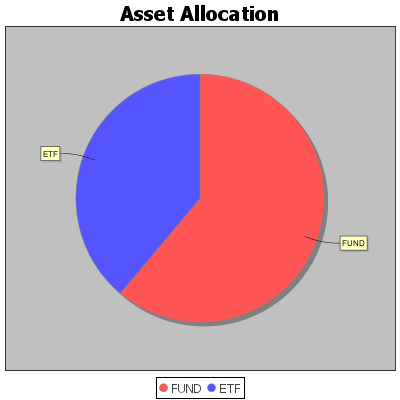
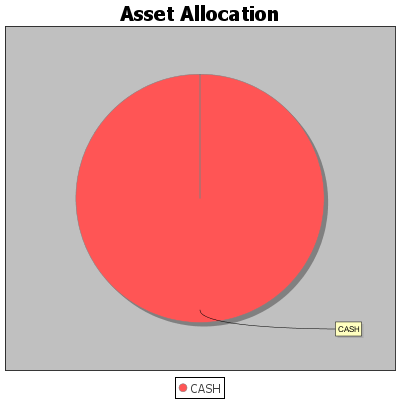
#17 create simple REST end point

diff --git a/finance-stockfeed/recommendations.html b/finance-stockfeed/recommendations.html
@@ -1,1 +1,1 @@
-<html><head></head><body><table><tr><th>Name</th><th>ISIN</th><th>Code</th><th>Sector</th><th>Type</th><th>Quantity Owned</th><th>Value Owned</th><th>Price</th><th>AsOf</th><th>Age of quote</th><th>1D</th><th>5D</th><th>21D</th><th>63D</th><th>365d</th><th>Global Extrema</th><th>Moving Momentum</th><th>SMA (12days)</th><th>SMA (20days)</th><th>SMA (50days)</th></tr><tr><td>UNKNOWN</td><td>UNKNOWN</td><td>Cash</td><td>UNKNOWN</td><td>UNKNOWN</td><td>24475.88</td><td>NaN</td><td>1</td><td>2017-04-23</td><td bgcolor='white'>0</td><td bgcolor='red'>null</td><td bgcolor='red'>null</td><td bgcolor='red'>null</td><td bgcolor='red'>null</td><td bgcolor='red'>null</td><td bgcolor='white'>HOLD</td><td bgcolor='white'>HOLD</td><td bgcolor='white'>HOLD</td><td bgcolor='white'>HOLD</td><td bgcolor='white'>HOLD</td></tr><tr><td>GB00B1H05601</td><td>GB00B1H05601</td><td>GB00B1H05601</td><td>UK Bond</td><td>FUND</td><td>6629.98</td><td>9764.63</td><td>1.47</td><td>2017-04-20</td><td bgcolor='red'>-3</td><td bgcolor='green'>0.34</td><td bgcolor='green'>1.33</td><td bgcolor='green'>0.02</td><td bgcolor='green'>2.01</td><td bgcolor='white'>0</td><td bgcolor='white'>HOLD</td><td bgcolor='white'>HOLD</td><td bgcolor='green'>BUY</td><td bgcolor='green'>BUY</td><td bgcolor='green'>BUY</td></tr><tr><td>GB00B41YBW71</td><td>GB00B41YBW71</td><td>FUQUIT</td><td>Global Equity</td><td>FUND</td><td>1673.24</td><td>5304.17</td><td>3.17</td><td>2017-04-19</td><td bgcolor='red'>-4</td><td bgcolor='red'>-0.79</td><td bgcolor='red'>-2.38</td><td bgcolor='red'>-1.98</td><td bgcolor='green'>15.08</td><td bgcolor='white'>0</td><td bgcolor='white'>HOLD</td><td bgcolor='white'>HOLD</td><td bgcolor='red'>SELL</td><td bgcolor='red'>SELL</td><td bgcolor='green'>BUY</td></tr><tr><td>IE00B1TXK627</td><td>IE00B1TXK627</td><td>IH2O</td><td>Sector Equity Water</td><td>ETF</td><td>150</td><td>4337.25</td><td>28.91</td><td>2017-04-21</td><td bgcolor='red'>-2</td><td bgcolor='red'>-0.43</td><td bgcolor='green'>3.8</td><td bgcolor='red'>-10.83</td><td bgcolor='red'>-19.87</td><td bgcolor='green'>5.03</td><td bgcolor='white'>HOLD</td><td bgcolor='white'>HOLD</td><td bgcolor='red'>SELL</td><td bgcolor='red'>SELL</td><td bgcolor='red'>SELL</td></tr><tr><td>IE00B2QWDY88</td><td>IE00B2QWDY88</td><td>ISJP</td><td>Japan Large-Cap Equity</td><td>ETF</td><td>150</td><td>4266</td><td>28.44</td><td>2017-04-21</td><td bgcolor='red'>-2</td><td bgcolor='green'>0.43</td><td bgcolor='red'>-4.06</td><td bgcolor='red'>-23.19</td><td bgcolor='red'>-98.61</td><td bgcolor='green'>4.41</td><td bgcolor='white'>HOLD</td><td bgcolor='white'>HOLD</td><td bgcolor='red'>SELL</td><td bgcolor='red'>SELL</td><td bgcolor='red'>SELL</td></tr><tr><td>IE00B4L60H17</td><td>IE00B4L60H17</td><td>ISXF</td><td>GBP Corporate Bond</td><td>ETF</td><td>27</td><td>3477.6</td><td>128.8</td><td>2017-04-21</td><td bgcolor='red'>-2</td><td bgcolor='green'>0.12</td><td bgcolor='green'>0.46</td><td bgcolor='green'>0.15</td><td bgcolor='green'>1.48</td><td bgcolor='green'>11.46</td><td bgcolor='white'>HOLD</td><td bgcolor='white'>HOLD</td><td bgcolor='green'>BUY</td><td bgcolor='green'>BUY</td><td bgcolor='green'>BUY</td></tr><tr><td>GB00B1H05601</td><td>GB00B1H05601</td><td>MGOII</td><td>UK Bond</td><td>FUND</td><td>12.589</td><td>18.54</td><td>1.47</td><td>2017-04-20</td><td bgcolor='red'>-3</td><td bgcolor='green'>0.34</td><td bgcolor='green'>1.33</td><td bgcolor='green'>0.02</td><td bgcolor='green'>2.01</td><td bgcolor='white'>0</td><td bgcolor='white'>HOLD</td><td bgcolor='white'>HOLD</td><td bgcolor='green'>BUY</td><td bgcolor='green'>BUY</td><td bgcolor='green'>BUY</td></tr><tr><td>GB00BD050949</td><td>GB00BD050949</td><td>RLAAAI</td><td>Short duration bond</td><td>FUND</td><td>14395.39</td><td>15057.58</td><td>1.05</td><td>2017-04-21</td><td bgcolor='red'>-2</td><td bgcolor='white'>0</td><td bgcolor='green'>0.1</td><td bgcolor='red'>-0.89</td><td bgcolor='green'>0.39</td><td bgcolor='white'>0</td><td bgcolor='white'>HOLD</td><td bgcolor='white'>HOLD</td><td bgcolor='red'>SELL</td><td bgcolor='red'>SELL</td><td bgcolor='red'>SELL</td></tr><tr><td>IE00B2NPKV68</td><td>IE00B2NPKV68</td><td>SEMB</td><td>Global Emerging Markets Bond</td><td>ETF</td><td>57</td><td>5041.08</td><td>88.44</td><td>2017-04-21</td><td bgcolor='red'>-2</td><td bgcolor='green'>0.57</td><td bgcolor='green'>0.86</td><td bgcolor='green'>0.08</td><td bgcolor='red'>-17.88</td><td bgcolor='green'>6810.31</td><td bgcolor='white'>HOLD</td><td bgcolor='white'>HOLD</td><td bgcolor='green'>BUY</td><td bgcolor='green'>BUY</td><td bgcolor='red'>SELL</td></tr><tr><td>IE00B9MRJJ36</td><td>IE00B9MRJJ36</td><td>XDGM</td><td>Germany Small/Mid-Cap Equity</td><td>ETF</td><td>250</td><td>4508.75</td><td>18.04</td><td>2017-04-21</td><td bgcolor='red'>-2</td><td bgcolor='white'>0</td><td bgcolor='red'>-2.52</td><td bgcolor='red'>-10.61</td><td bgcolor='red'>-11.07</td><td bgcolor='green'>4.85</td><td bgcolor='white'>HOLD</td><td bgcolor='white'>HOLD</td><td bgcolor='red'>SELL</td><td bgcolor='red'>SELL</td><td bgcolor='red'>SELL</td></tr><tr><td>UNKNOWN</td><td>UNKNOWN</td><td>Cash</td><td>UNKNOWN</td><td>UNKNOWN</td><td>51983.65</td><td>NaN</td><td>1</td><td>2017-04-23</td><td bgcolor='white'>0</td><td bgcolor='red'>null</td><td bgcolor='red'>null</td><td bgcolor='red'>null</td><td bgcolor='red'>null</td><td bgcolor='red'>null</td><td bgcolor='white'>HOLD</td><td bgcolor='white'>HOLD</td><td bgcolor='white'>HOLD</td><td bgcolor='white'>HOLD</td><td bgcolor='white'>HOLD</td></tr><tr><td>GB00B41YBW71</td><td>GB00B41YBW71</td><td>FUQUIT</td><td>Global Equity</td><td>FUND</td><td>3091.96</td><td>9801.51</td><td>3.17</td><td>2017-04-19</td><td bgcolor='red'>-4</td><td bgcolor='red'>-0.79</td><td bgcolor='red'>-2.38</td><td bgcolor='red'>-1.98</td><td bgcolor='green'>15.08</td><td bgcolor='white'>0</td><td bgcolor='white'>HOLD</td><td bgcolor='white'>HOLD</td><td bgcolor='red'>SELL</td><td bgcolor='red'>SELL</td><td bgcolor='green'>BUY</td></tr><tr><td>JE00B1VS3770</td><td>JE00B1VS3770</td><td>PHGP</td><td>Commodities - Precious Metals</td><td>ETF</td><td>53</td><td>5119.75</td><td>96.6</td><td>2017-04-21</td><td bgcolor='red'>-2</td><td bgcolor='red'>-3.05</td><td bgcolor='red'>-4.24</td><td bgcolor='red'>-10.53</td><td bgcolor='red'>-12.58</td><td bgcolor='green'>60.17</td><td bgcolor='white'>HOLD</td><td bgcolor='white'>HOLD</td><td bgcolor='red'>SELL</td><td bgcolor='red'>SELL</td><td bgcolor='red'>SELL</td></tr><tr><td>GB00B45Q9038</td><td>GB00B45Q9038</td><td>VVUILG</td><td>UK Inflation</td><td>FUND</td><td>10.9634</td><td>2116.37</td><td>193.04</td><td>2017-04-19</td><td bgcolor='red'>-4</td><td bgcolor='red'>-0.12</td><td bgcolor='red'>-0.85</td><td bgcolor='green'>0.76</td><td bgcolor='green'>11.94</td><td bgcolor='white'>0</td><td bgcolor='white'>HOLD</td><td bgcolor='white'>HOLD</td><td bgcolor='red'>SELL</td><td bgcolor='green'>BUY</td><td bgcolor='green'>BUY</td></tr><tr><td>UNKNOWN</td><td>UNKNOWN</td><td>Cash</td><td>UNKNOWN</td><td>UNKNOWN</td><td>14746.37</td><td>NaN</td><td>1</td><td>2017-04-23</td><td bgcolor='white'>0</td><td bgcolor='red'>null</td><td bgcolor='red'>null</td><td bgcolor='red'>null</td><td bgcolor='red'>null</td><td bgcolor='red'>null</td><td bgcolor='white'>HOLD</td><td bgcolor='white'>HOLD</td><td bgcolor='white'>HOLD</td><td bgcolor='white'>HOLD</td><td bgcolor='white'>HOLD</td></tr></table><hr><table><tr><th>Asset</th><th>Value</th></tr><tr><td>ETF</td><td>26750.43</td></tr><tr><td>FUND</td><td>42062.8</td></tr><tr><td>Total</td><td>68813.23</td></tr><IMG SRC="assets.png" WIDTH="400" HEIGHT="400" BORDER="0" USEMAP="#chart"></body></html>
+<html><head></head><body><table><tr><th>Name</th><th>ISIN</th><th>Code</th><th>Sector</th><th>Type</th><th>Quantity Owned</th><th>Value Owned</th><th>Price</th><th>AsOf</th><th>Age of quote</th><th>1D</th><th>5D</th><th>21D</th><th>63D</th><th>365d</th><th>Global Extrema</th><th>Moving Momentum</th><th>SMA (12days)</th><th>SMA (20days)</th><th>SMA (50days)</th></tr><tr><td>Cash</td><td>Cash</td><td>Cash</td><td>Cash</td><td>CASH</td><td>24475.88</td><td>24475.88</td><td>1</td><td>2017-04-23</td><td bgcolor='white'>0</td><td bgcolor='white'>0</td><td bgcolor='white'>0</td><td bgcolor='white'>0</td><td bgcolor='white'>0</td><td bgcolor='white'>0</td><td bgcolor='green'>BUY</td><td bgcolor='white'>HOLD</td><td bgcolor='white'>HOLD</td><td bgcolor='white'>HOLD</td><td bgcolor='white'>HOLD</td></tr></table><hr><table><tr><th>Asset</th><th>Value</th></tr><tr><td>CASH</td><td>24475.88</td></tr><tr><td>Total</td><td>24475.88</td></tr><IMG SRC="assets.png" WIDTH="400" HEIGHT="400" BORDER="0" USEMAP="#chart"></body></html>

diff --git a/finance-stockfeed/src/main/java/com/leonarduk/finance/api/AppConfig.java b/finance-stockfeed/src/main/java/com/leonarduk/finance/api/AppConfig.java
@@ -1,4 +1,4 @@
-package com.leonarduk.finance.stockfeed;
+package com.leonarduk.finance.api;
 
 import net.sf.log4jdbc.sql.jdbcapi.DataSourceSpy;
 import org.glassfish.jersey.server.ResourceConfig;
@@ -19,7 +19,7 @@ public class AppConfig {
     @Named
     static class JerseyConfig extends ResourceConfig {
         public JerseyConfig() {
-            this.packages("com.leonarduk.finance.stockfeed");
+            this.packages("com.leonarduk.finance.api");
         }
     }
 

diff --git a/finance-stockfeed/src/main/java/com/leonarduk/finance/stockfeed/file/CsvStockFeed.java b/finance-stockfeed/src/main/java/com/leonarduk/finance/stockfeed/file/CsvStockFeed.java
@@ -15,9 +15,8 @@ import java.util.logging.Logger;
 import org.joda.time.LocalDate;
 
 import com.leonarduk.finance.stockfeed.ComparableHistoricalQuote;
-import com.leonarduk.finance.stockfeed.Instrument;
 import com.leonarduk.finance.stockfeed.StockFeed;
-import com.leonarduk.finance.stockfeed.google.DateUtils;
+import com.leonarduk.finance.utils.DateUtils;
 
 import yahoofinance.Stock;
 import yahoofinance.histquotes.HistoricalQuote;

diff --git a/finance-stockfeed/src/test/java/com/leonarduk/finance/stockfeed/AnalyseSnapshotTest.java b/finance-stockfeed/src/test/java/com/leonarduk/finance/stockfeed/AnalyseSnapshotTest.java
@@ -9,8 +9,8 @@ import java.util.Optional;
 import org.joda.time.LocalDate;
 import org.junit.Test;
 
-import com.leonarduk.stockmarketview.AnalyseSnapshot;
-import com.leonarduk.stockmarketview.portfolio.Position;
+import com.leonarduk.finance.AnalyseSnapshot;
+import com.leonarduk.finance.portfolio.Position;
 
 import eu.verdelhan.ta4j.Decimal;
 import eu.verdelhan.ta4j.Tick;

diff --git a/finance-stockfeed/src/test/java/com/leonarduk/finance/stockfeed/CachedStockFeedTest.java b/finance-stockfeed/src/test/java/com/leonarduk/finance/stockfeed/CachedStockFeedTest.java
@@ -15,7 +15,7 @@ import org.junit.Test;
 import com.google.common.collect.Lists;
 import com.google.common.io.Files;
 import com.leonarduk.finance.stockfeed.StockFeed.EXCHANGE;
-import com.leonarduk.finance.stockfeed.google.DateUtils;
+import com.leonarduk.finance.utils.DateUtils;
 
 import yahoofinance.Stock;
 import yahoofinance.histquotes.HistoricalQuote;

diff --git a/finance-stockfeed/src/main/java/com/leonarduk/finance/utils/Utils.java b/finance-stockfeed/src/main/java/com/leonarduk/finance/utils/Utils.java
@@ -1,4 +1,4 @@
-package yahoofinance;
+package com.leonarduk.finance.utils;
 
 import java.io.UnsupportedEncodingException;
 import java.math.BigDecimal;
@@ -11,6 +11,8 @@ import java.util.Map;
 import java.util.Map.Entry;
 import java.util.TimeZone;
 import java.util.logging.Level;
+
+import yahoofinance.YahooFinance;
 
 /**
  *

diff --git a/finance-stockfeed/src/main/java/yahoofinance/YahooFinance.java b/finance-stockfeed/src/main/java/yahoofinance/YahooFinance.java
@@ -7,6 +7,9 @@ import java.util.HashMap;
 import java.util.List;
 import java.util.Map;
 import java.util.logging.Logger;
+
+import com.leonarduk.finance.utils.Utils;
+
 import yahoofinance.histquotes.HistQuotesRequest;
 import yahoofinance.histquotes.Interval;
 import yahoofinance.quotes.fx.FxQuote;

diff --git a/finance-stockfeed/src/main/java/yahoofinance/quotes/stock/StockQuote.java b/finance-stockfeed/src/main/java/yahoofinance/quotes/stock/StockQuote.java
@@ -4,7 +4,8 @@ package yahoofinance.quotes.stock;
 import java.math.BigDecimal;
 import java.util.Calendar;
 import java.util.TimeZone;
-import yahoofinance.Utils;
+
+import com.leonarduk.finance.utils.Utils;
 
 /**
  * All getters can return null in case the data is not available from Yahoo Finance.

diff --git a/finance-stockfeed/src/main/java/com/leonarduk/finance/utils/DateUtils.java b/finance-stockfeed/src/main/java/com/leonarduk/finance/utils/DateUtils.java
@@ -19,7 +19,7 @@
  * FROM, OUT OF OR IN CONNECTION WITH THE SOFTWARE OR THE USE OR OTHER DEALINGS
  * IN THE SOFTWARE.
  */
-package com.leonarduk.finance.stockfeed.google;
+package com.leonarduk.finance.utils;
 
 import static java.util.Calendar.DAY_OF_YEAR;
 import static java.util.Calendar.MONTH;

diff --git a/finance-stockfeed/src/main/java/yahoofinance/quotes/fx/FxQuotesRequest.java b/finance-stockfeed/src/main/java/yahoofinance/quotes/fx/FxQuotesRequest.java
@@ -3,7 +3,9 @@ package yahoofinance.quotes.fx;
 
 import java.util.ArrayList;
 import java.util.List;
-import yahoofinance.Utils;
+
+import com.leonarduk.finance.utils.Utils;
+
 import yahoofinance.YahooFinance;
 import yahoofinance.quotes.QuotesProperty;
 import yahoofinance.quotes.QuotesRequest;

diff --git a/finance-stockfeed/src/main/java/yahoofinance/quotes/stock/StockQuotesData.java b/finance-stockfeed/src/main/java/yahoofinance/quotes/stock/StockQuotesData.java
@@ -1,7 +1,8 @@
 package yahoofinance.quotes.stock;
 
+import com.leonarduk.finance.utils.Utils;
+
 import yahoofinance.Stock;
-import yahoofinance.Utils;
 import yahoofinance.exchanges.ExchangeTimeZone;
 import yahoofinance.quotes.QuotesProperty;
 

diff --git a/finance-stockfeed/src/main/java/yahoofinance/quotes/stock/StockStats.java b/finance-stockfeed/src/main/java/yahoofinance/quotes/stock/StockStats.java
@@ -3,7 +3,7 @@ package yahoofinance.quotes.stock;
 
 import java.math.BigDecimal;
 
-import yahoofinance.Utils;
+import com.leonarduk.finance.utils.Utils;
 
 /**
  * All getters can return null in case the data is not available from Yahoo Finance.
